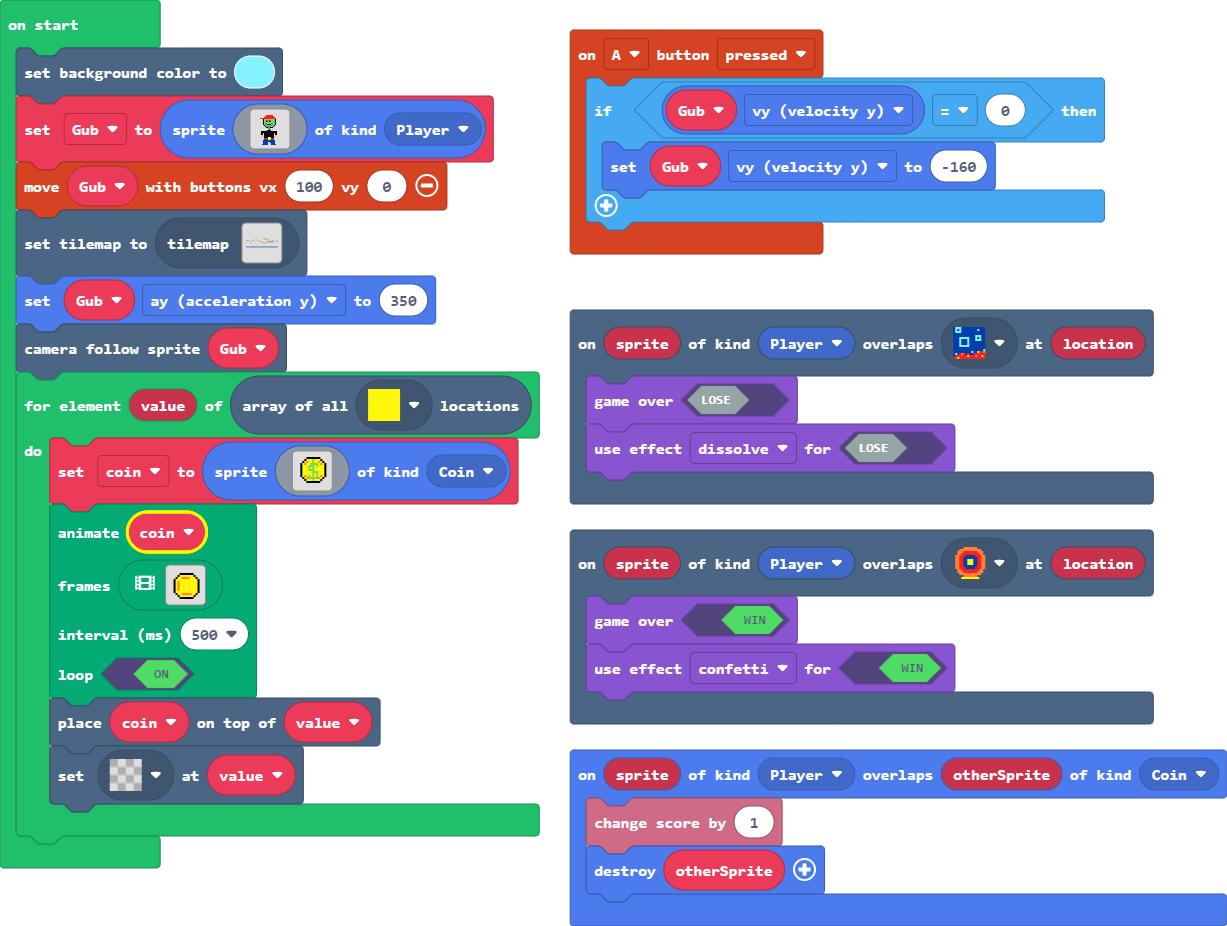
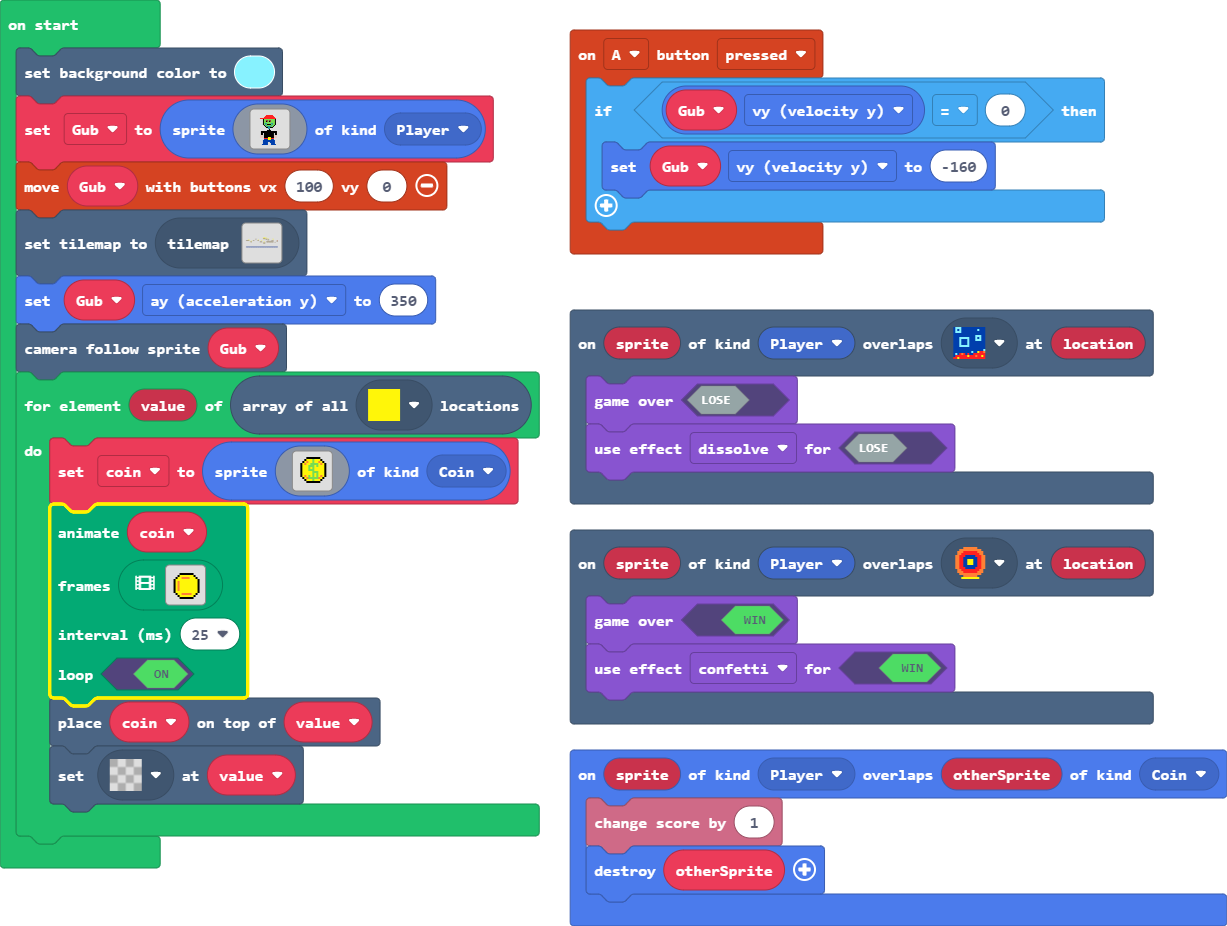
Update main.blocks, main.ts

Changed region(s): [[0.031, 0.5443, 0.2168, 0.7559]]

diff --git a/main.ts b/main.ts
@@ -81,8 +81,110 @@ for (let value of tiles.getTilesByType(assets.tile`myTile2`)) {
         . . . . . f 5 5 5 5 5 f . . . . 
         . . . . . . f f f f f . . . . . 
         . . . . . . . . . . . . . . . . 
+        `,img`
+        . . . . . . . . . . . . . . . . 
+        . . . . . . . . . . . . . . . . 
+        . . . . . . . f f f . . . . . . 
+        . . . . . . f 5 5 5 f . . . . . 
+        . . . . . f 5 5 5 5 5 f . . . . 
+        . . . . f 5 5 5 5 5 5 5 f . . . 
+        . . . . f 5 4 5 5 5 5 5 f . . . 
+        . . . . f 5 4 5 5 5 5 5 f . . . 
+        . . . . f 5 4 5 5 5 5 5 f . . . 
+        . . . . f 5 4 5 5 5 5 5 f . . . 
+        . . . . f 5 4 5 5 5 5 5 f . . . 
+        . . . . f 5 5 5 5 5 5 5 f . . . 
+        . . . . . f 5 5 4 5 5 f . . . . 
+        . . . . . . f 5 5 5 f . . . . . 
+        . . . . . . . f f f . . . . . . 
+        . . . . . . . . . . . . . . . . 
+        `,img`
+        . . . . . . . . . . . . . . . . 
+        . . . . . . . . . . . . . . . . 
+        . . . . . . . . f . . . . . . . 
+        . . . . . . . f 5 f . . . . . . 
+        . . . . . . f 5 5 5 f . . . . . 
+        . . . . . f 5 5 5 5 5 f . . . . 
+        . . . . . f 5 4 5 5 5 f . . . . 
+        . . . . . f 5 4 5 5 5 f . . . . 
+        . . . . . f 5 4 5 5 5 f . . . . 
+        . . . . . f 5 4 5 5 5 f . . . . 
+        . . . . . f 5 4 5 5 5 f . . . . 
+        . . . . . f 5 5 5 5 5 f . . . . 
+        . . . . . . f 5 4 5 f . . . . . 
+        . . . . . . . f 5 f . . . . . . 
+        . . . . . . . . f . . . . . . . 
+        . . . . . . . . . . . . . . . . 
+        `,img`
+        . . . . . . . . . . . . . . . . 
+        . . . . . . . . . . . . . . . . 
+        . . . . . . . . f . . . . . . . 
+        . . . . . . . . 5 . . . . . . . 
+        . . . . . . . f 5 f . . . . . . 
+        . . . . . . f 5 5 5 f . . . . . 
+        . . . . . . f 5 5 5 f . . . . . 
+        . . . . . . f 5 5 5 f . . . . . 
+        . . . . . . f 5 5 5 f . . . . . 
+        . . . . . . f 5 5 5 f . . . . . 
+        . . . . . . f 5 5 5 f . . . . . 
+        . . . . . . f 5 5 5 f . . . . . 
+        . . . . . . . f 4 f . . . . . . 
+        . . . . . . . . 5 . . . . . . . 
+        . . . . . . . . f . . . . . . . 
+        . . . . . . . . . . . . . . . . 
+        `,img`
+        . . . . . . . . . . . . . . . . 
+        . . . . . . . . . . . . . . . . 
+        . . . . . . . . f . . . . . . . 
+        . . . . . . . f 5 f . . . . . . 
+        . . . . . . f 5 5 5 f . . . . . 
+        . . . . . f 5 5 5 5 5 f . . . . 
+        . . . . . f 5 4 5 5 5 f . . . . 
+        . . . . . f 5 4 5 5 5 f . . . . 
+        . . . . . f 5 4 5 5 5 f . . . . 
+        . . . . . f 5 4 5 5 5 f . . . . 
+        . . . . . f 5 4 5 5 5 f . . . . 
+        . . . . . f 5 5 5 5 5 f . . . . 
+        . . . . . . f 5 4 5 f . . . . . 
+        . . . . . . . f 5 f . . . . . . 
+        . . . . . . . . f . . . . . . . 
+        . . . . . . . . . . . . . . . . 
+        `,img`
+        . . . . . . . . . . . . . . . . 
+        . . . . . . . . . . . . . . . . 
+        . . . . . . . f f f . . . . . . 
+        . . . . . . f 5 5 5 f . . . . . 
+        . . . . . f 5 5 5 5 5 f . . . . 
+        . . . . f 5 5 5 5 5 5 5 f . . . 
+        . . . . f 5 4 5 5 5 5 5 f . . . 
+        . . . . f 5 4 5 5 5 5 5 f . . . 
+        . . . . f 5 4 5 5 5 5 5 f . . . 
+        . . . . f 5 4 5 5 5 5 5 f . . . 
+        . . . . f 5 4 5 5 5 5 5 f . . . 
+        . . . . f 5 5 5 5 5 5 5 f . . . 
+        . . . . . f 5 5 4 5 5 f . . . . 
+        . . . . . . f 5 5 5 f . . . . . 
+        . . . . . . . f f f . . . . . . 
+        . . . . . . . . . . . . . . . . 
+        `,img`
+        . . . . . . . . . . . . . . . . 
+        . . . . . . . . . . . . . . . . 
+        . . . . . f f f f f f f . . . . 
+        . . . . f 5 5 5 5 5 5 5 f . . . 
+        . . . f 5 5 4 4 4 4 5 5 5 f . . 
+        . . f 5 5 5 5 5 5 5 5 5 5 5 f . 
+        . . f 5 4 5 5 5 5 5 5 5 5 5 f . 
+        . . f 5 4 5 5 5 5 5 5 5 5 5 f . 
+        . . f 5 4 5 5 5 5 5 5 5 5 5 f . 
+        . . f 5 4 5 5 5 5 5 5 5 5 5 f . 
+        . . f 5 4 5 5 5 5 5 5 5 5 5 f . 
+        . . f 5 5 5 5 5 5 5 5 5 5 5 f . 
+        . . . f 5 5 4 4 4 4 4 5 5 f . . 
+        . . . . f 5 5 5 5 5 5 5 f . . . 
+        . . . . . f f f f f f f . . . . 
+        . . . . . . . . . . . . . . . . 
         `],
-    500,
+    25,
     true
     )
     tiles.placeOnTile(coin, value)
